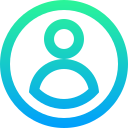
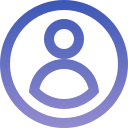
[Finish]Ticket Inspection list finished

diff --git a/src/components/List.vue b/src/components/List.vue
@@ -11,7 +11,7 @@
           type="primary"
           size="small"
           class="mb-1"
-          color="#1CBC9B"
+          color="#3c57b6"
           @click="onSearch"
           >Search</van-button
         >
@@ -36,8 +36,9 @@
           :error-text="errorMessage"
           @load="onLoad"
         >
-         
-          <RouteItem v-if="storeName == 'routeStore'" :list="list" :query-parameters="props.queryParameters"/>
+          
+          <TicketInspectionItem v-if="storeName == 'ticketInspectionStore'" :list="list" />
+          
         </van-list>
       </div>
     </van-pull-refresh>
@@ -47,11 +48,11 @@
 <script setup>
 import { ref } from "vue";
 import { usestoreHelper } from "@/helplers/useStoreHelper";
-import RouteItem from "./RouteItem.vue";
+import TicketInspectionItem from "./TicketInspectionItem.vue";
 
 const props = defineProps({
   storeName: { type: String, required: true },
-  queryParameters:{type: Object, required:true},
+  queryParameters: { type: Object, required: true },
 });
 
 const storeName = ref(props.storeName);

diff --git a/src/stores/ticketInspectionStore.js b/src/stores/ticketInspectionStore.js
@@ -3,7 +3,7 @@ import { defineStore } from "pinia";
 import axiosInstance from "@/axiosInstance";
 
 
-export const useRouteStore = defineStore("routeStore", {
+export const useTicketInspectionStore = defineStore("ticketInspectionStore", {
   state: () => ({ 
     response: null, 
     error: null,
@@ -20,19 +20,15 @@ export const useRouteStore = defineStore("routeStore", {
     async get(queryParameters){
         try {
             
-            let response = await axiosInstance.get(`route`,{
+            let response = await axiosInstance.get(`ticket-inspector-portal/ticket-inspection`,{
               params: queryParameters,
             });
-            console.log(response);
-
             this.response = response.data ?? null;
             
             this.error = null;
             this.errorMessage = null;
             this.errors = [];
         } catch (error) {
-            console.log(error);
-
             this.response = null;
             this.error = error;
             this.errorMessage = error?.response?.data?.message ?? null;

diff --git a/src/assets/css/main.css b/src/assets/css/main.css
@@ -4,17 +4,17 @@
 
 
 :root{
-    --var-theme: linear-gradient(90deg,#3CACB6 0%, #8CCEAD 90%);
-    --var-primary-color: var(var(--var-theme)) !important;
-    --van-nav-bar-background: var(--var-theme) !important;
+    --van-theme: linear-gradient(90deg,#3c57b6 0%, #948cce 90%);
+    --van-primary-color: var(var(--van-theme)) !important;
+    --van-nav-bar-background: var(--van-theme) !important;
     --van-nav-bar-text-color: #fff !important;
     --van-nav-bar-title-text-color: #fff !important;
     --van-nav-bar-z-index: 999 !important;	
     --van-cell-label-margin-top: 0px !important;
     --van-nav-bar-icon-color: #fff !important;
-    --van-tabs-bottom-bar-color: #1CBC9B !important;
-    --van-step-text-color:#1CBC9B !important;
-    --van-step-active-color:#1CBC9B !important;
+    --van-tabs-bottom-bar-color: #3c57b6 !important;
+    --van-step-text-color:#3c57b6 !important;
+    --van-step-active-color:#3c57b6 !important;
     --van-step-icon-size: 20px !important; 
     --van-cell-horizontal-padding:10px !important;        
 }

diff --git a/src/components/TicketInspectionItem.vue b/src/components/TicketInspectionItem.vue
@@ -1,0 +1,26 @@
+<template>
+  <van-cell-group inset class="mb-3 mx-0" v-for="item in list" :key="item.id">
+    <van-cell>
+      <template #icon>
+        <img :src="item.icon" alt="" class="w-8 h-8 mr-2 mt-1" />
+      </template>
+      <template #title>
+        <van-text-ellipsis :content="item.ticket_number" />
+      </template>
+      <template #label>
+        <span>{{ item.created_at }}</span>
+      </template>
+      <template #value>
+        <span>{{ item.route_title }}</span>
+      </template>
+    </van-cell>
+  </van-cell-group>
+</template>
+
+<script setup>
+const props = defineProps({
+  list: { type: Array, required: true },
+});
+</script>
+
+<style scope></style>

diff --git a/src/App.vue b/src/App.vue
@@ -6,9 +6,9 @@
     <RouterView />
     </div>
   
-    <van-tabbar v-if="showTabBar" v-model="active" active-color="#1CBC9B">
+    <van-tabbar v-if="showTabBar" v-model="active" active-color="#3c57b6">
       <van-tabbar-item icon="home-o" replace to="/">Home</van-tabbar-item>
-      <van-tabbar-item icon="list-switch" replace to="/route"
+      <van-tabbar-item icon="list-switch" replace to="/ticket-inspection"
         >Ticket Inspection</van-tabbar-item
       >
       

diff --git a/tailwind.config.js b/tailwind.config.js
@@ -5,13 +5,13 @@ export default {
   theme: {
     extend: {
       backgroundImage:{
-        theme: "linear-gradient(90deg,#3CACB6 0%, #8CCEAD 90%)",
+        theme: "linear-gradient(90deg,#3c57b6 0%, #948cce 90%)",
     },
     borderColor:{
-        theme: "#1CBC9B ",
+        theme: "#3c57b6 ",
     },
     textColor:{
-        theme: "#1CBC9B ",
+        theme: "#3c57b6 ",
     },
     },
   },

diff --git a/src/views/TicketInspectionView.vue b/src/views/TicketInspectionView.vue
@@ -2,14 +2,11 @@
   <van-nav-bar title="Ticket Inspection" :fixed="true" />
   <div class="pt-[46px]"></div>
 
- 
+  <List :store-name="`ticketInspectionStore`" :query-parameters="{}" />
 </template>
 
 <script setup>
 import List from "@/components/List.vue";
-import { useRoute } from "vue-router";
-
-const route = useRoute();
 </script>
 
 <style scope></style>

diff --git a/src/views/HomeView.vue b/src/views/HomeView.vue
@@ -10,7 +10,7 @@
         <div>
           <h5 class="text-left text-white text-xs mb-0">YRS</h5>
           <p class="text-left text-white text-xs mb-0">
-            Yangon Railway Service
+            Ticket Inspector Portal
           </p>
         </div>
       </div>

diff --git a/src/helplers/useStoreHelper.js b/src/helplers/useStoreHelper.js
@@ -1,7 +1,6 @@
-import { useRouteStore } from "@/stores/routeStore";
-
+import { useTicketInspectionStore } from "@/stores/ticketInspectionStore";
 const stores = {
-  routeStore: useRouteStore(),
+  ticketInspectionStore: useTicketInspectionStore(),
 
 };
 

diff --git a/src/components/SplashScreen.vue b/src/components/SplashScreen.vue
@@ -6,7 +6,7 @@
       class="w-14 h-14 mb-2"
     />
     <h3 class="text-gray-600 text-md">YRS</h3>
-    <p class="text-gray-500 text-xs">Yangon Railway Service</p>
+    <p class="text-gray-500 text-xs">Ticket Inspector Portal</p>
   </div>
 </template>
 

diff --git a/src/views/LoginView.vue b/src/views/LoginView.vue
@@ -41,7 +41,7 @@
           block
           type="primary"
           native-type="submit"
-          color="#1CBC9B"
+          color="#3c57b6"
           :loading="submitBtnloading"
         >
           Confirm

diff --git a/src/views/TwoStepVerificationView.vue b/src/views/TwoStepVerificationView.vue
@@ -60,7 +60,7 @@
           block
           type="primary"
           native-type="submit"
-          color="#1CBC9B"
+          color="#3c57b6"
           :loading="submitBtnloading"
         >
           Confirm
